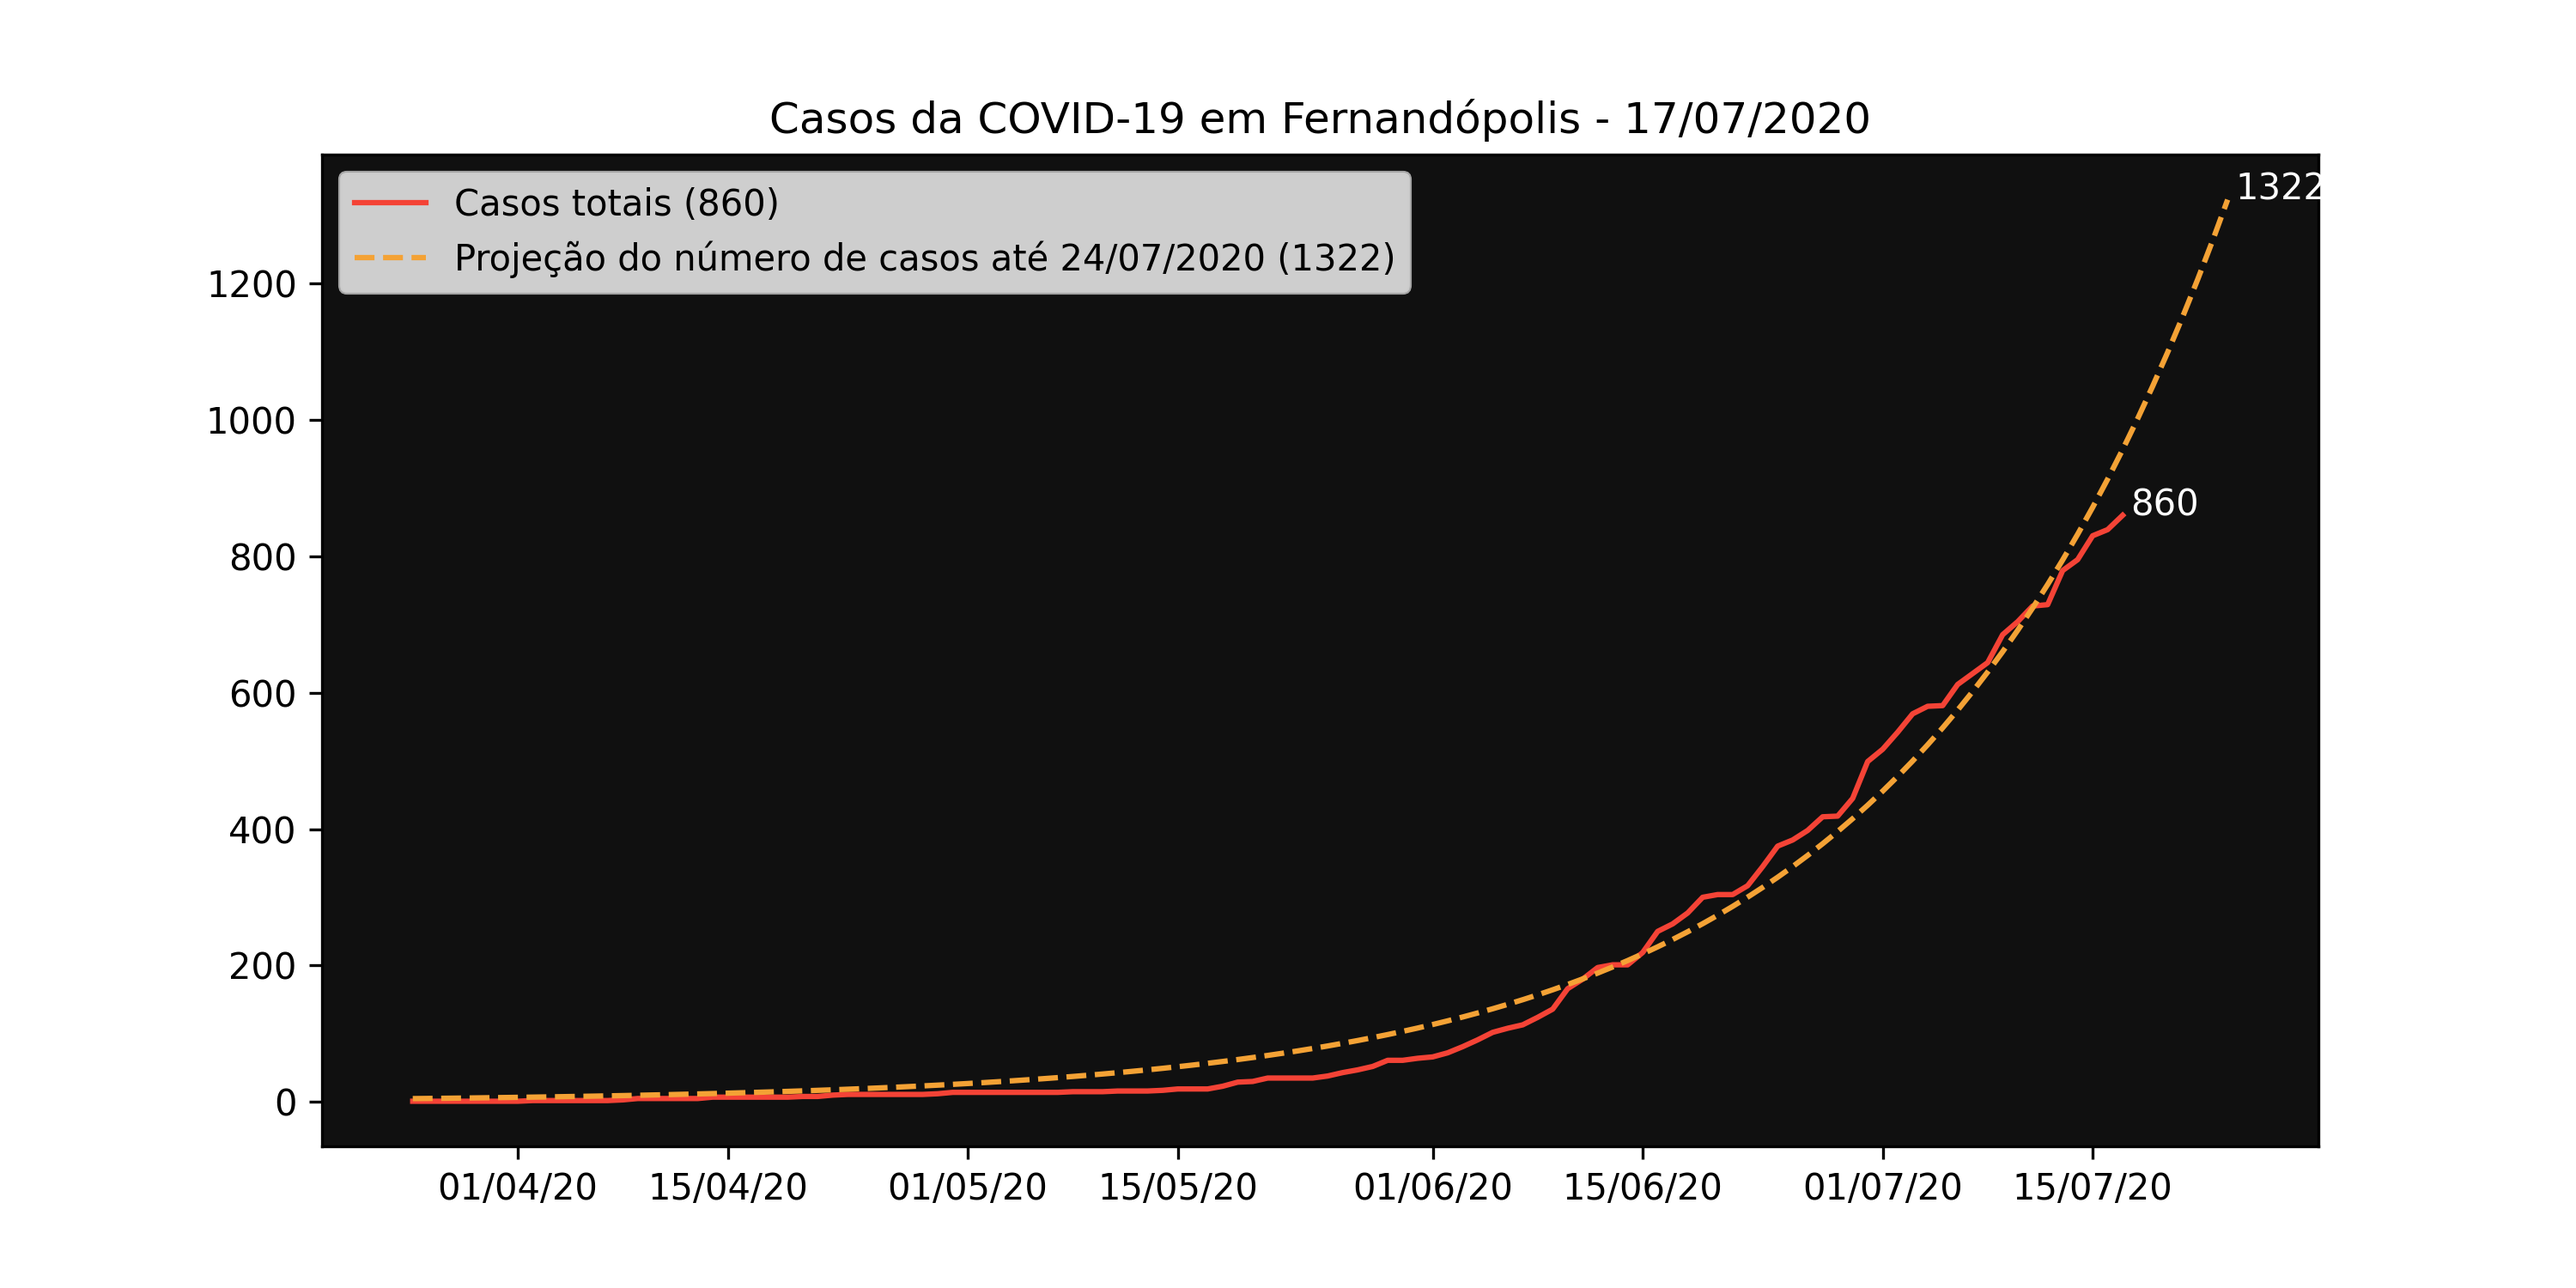
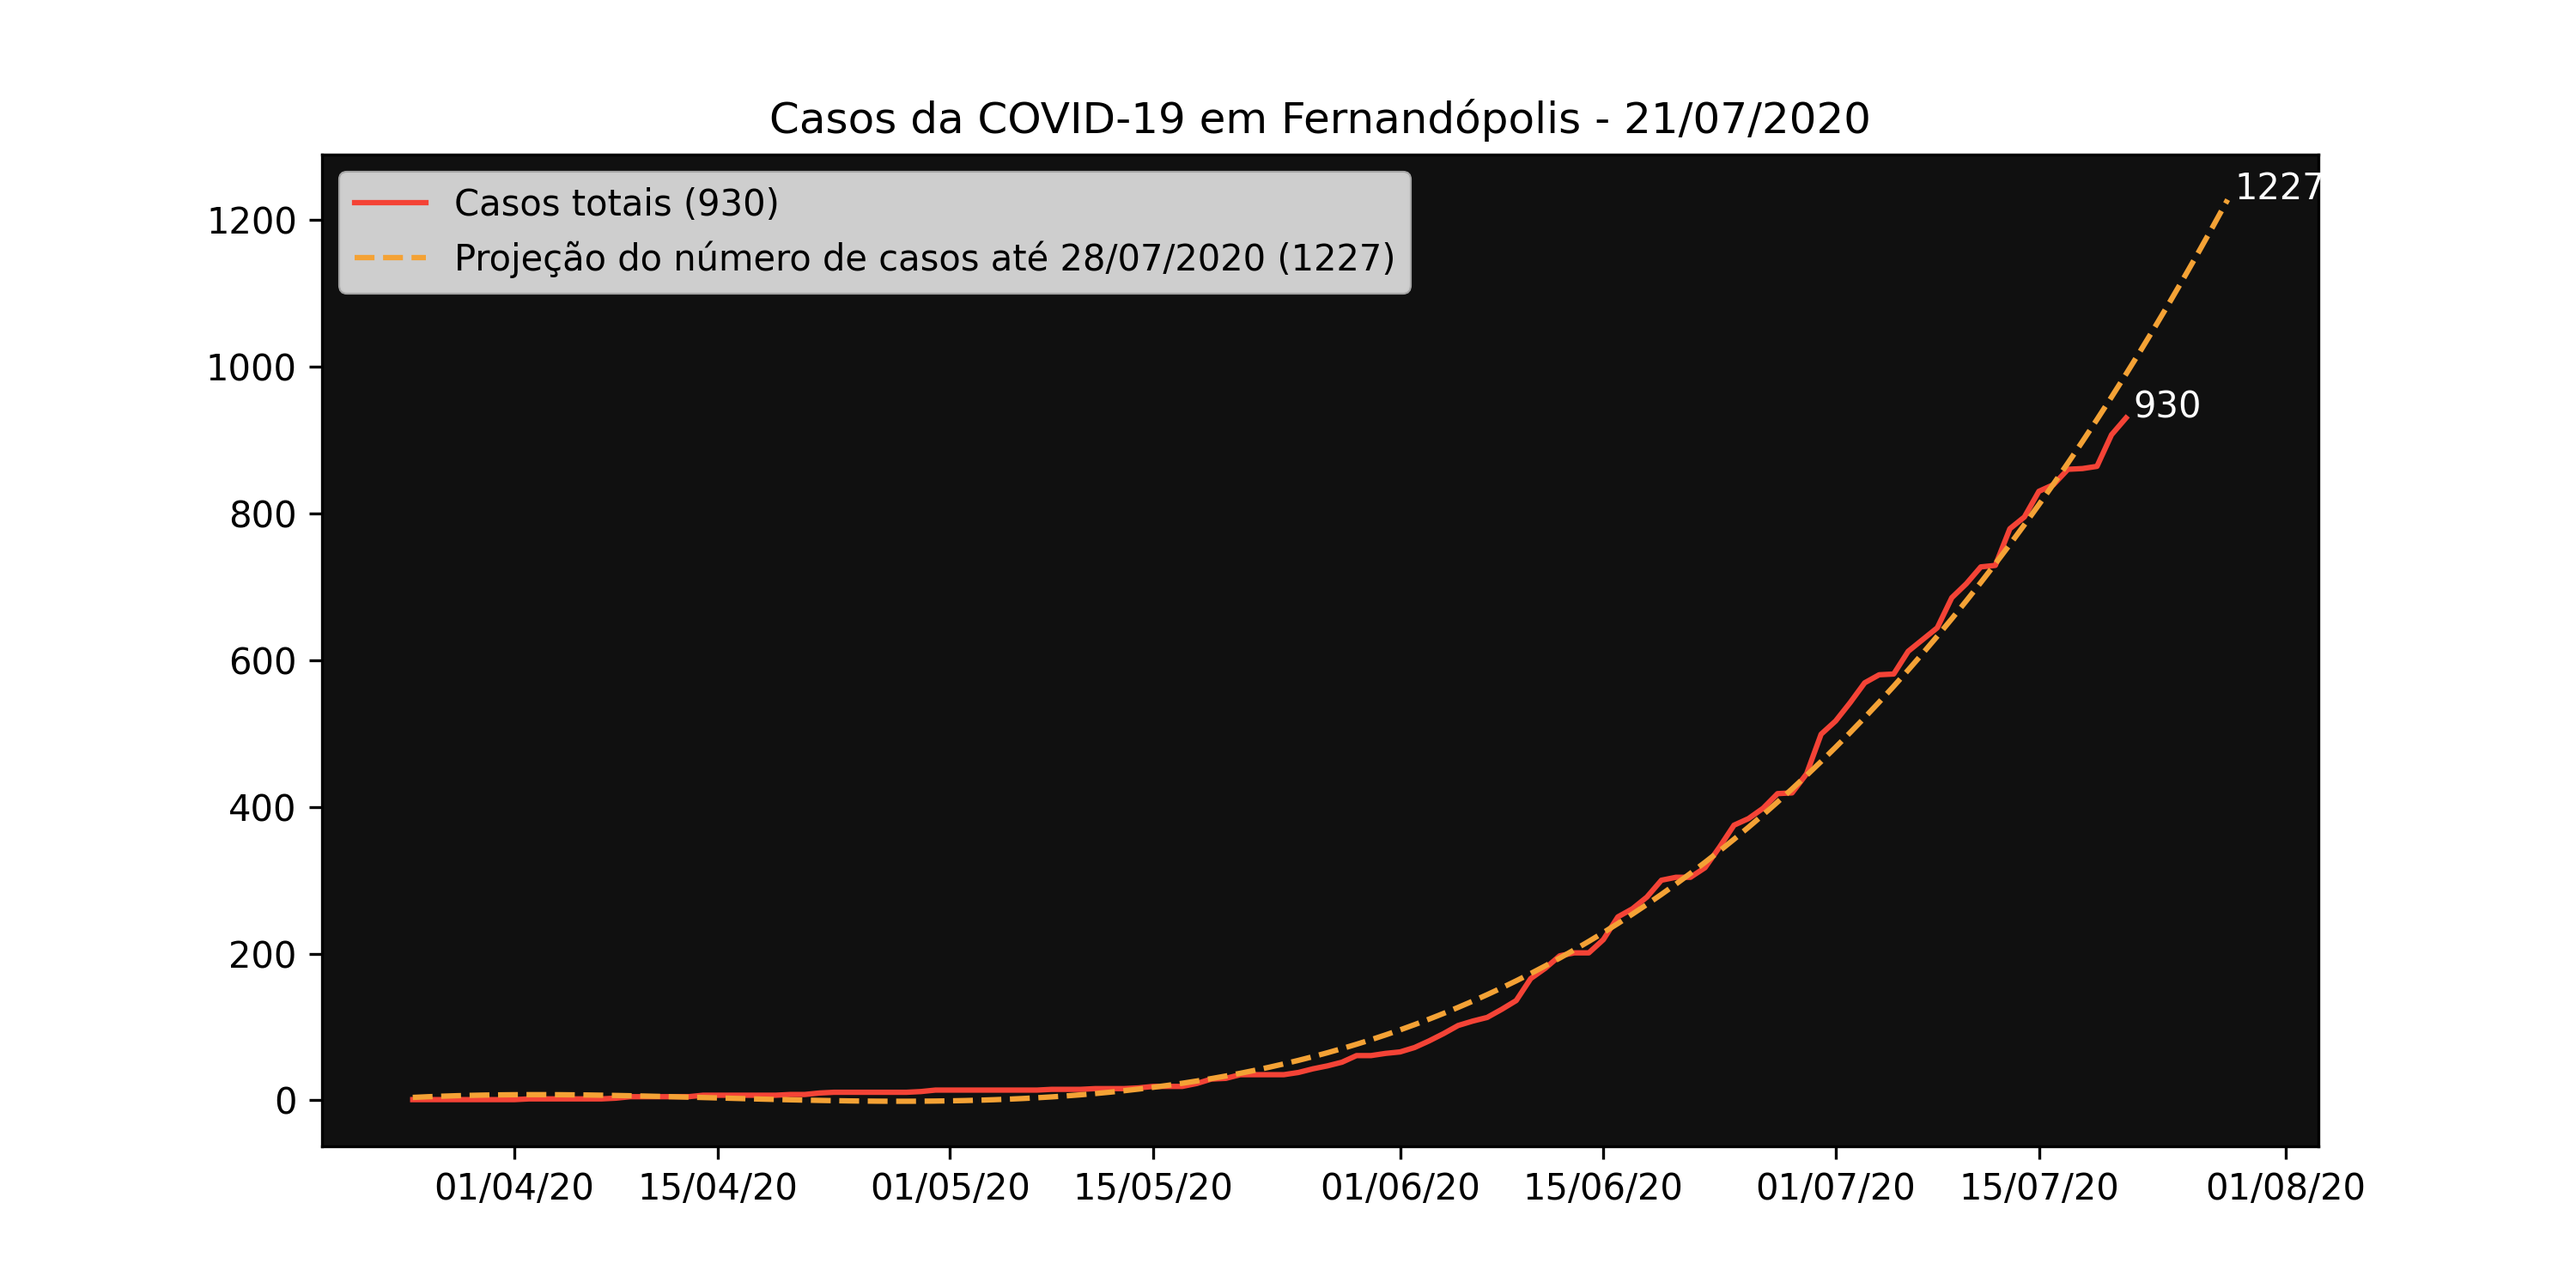
atualização ter 21 jul 2020 20:32:33 -03

diff --git a/chart-generator/main.py b/chart-generator/main.py
@@ -125,8 +125,8 @@ def line_chart(ds, dateFmt):
     fig.set_dpi(300)
 
     # exponential function
-    def func(x, a, b):
-        return np.exp(a + b * x)
+    def func(x, a, b, c, d):
+        return a * np.power(x, 3) + b * np.power(x, 2) + c * x + d
 
     # optimized parameters for exponential curve fitting
     optimizedParameters, _ = opt.curve_fit(
